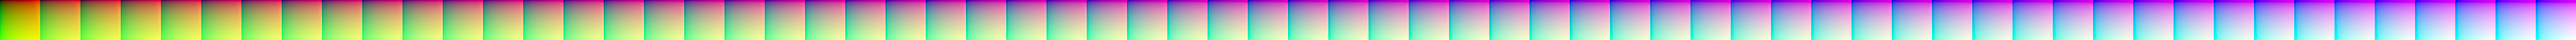
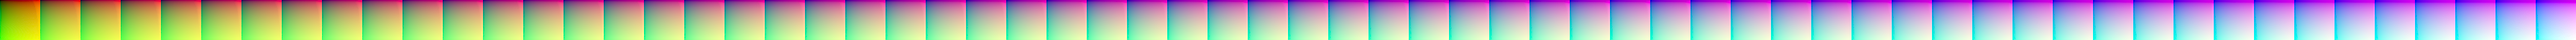
Update LUTs, etc. to match new gamma constants. Add 4% saturation to kind of compensate for lost "pop" from reducing constrast.

diff --git a/docs/mods/preparing_textures_for_ntscj_mode.md b/docs/mods/preparing_textures_for_ntscj_mode.md
@@ -25,7 +25,7 @@ Recolor your texture as per "If you are very anal," below.
 Make your texture in sRGB in Photoshop, etc., then apply the inverse NTSC-J conversion. Later, at display time, NTSC-J mode will apply the forward conversion, thus roundtripping your texture back to what you saw in Photoshop, etc.
 
 To do the inverse conversion, use [gamutthingy](https://github.com/ChthonVII/gamutthingy), as so:
-`gamutthingy --crtemu front --crtdemod CXA2060BS_JP --crtyuvconst 3digit --crtclamphighenable false --crtclamplowzerolight true --crtblack 0.0015 --crtwhite 1.71 --source-primaries P22_trinitron_mixandmatch --source-whitepoint 9300K8mpcd --dest-primaries srgb_spec --dest-whitepoint D65 --adapt cat16 --spiral-carisma true --map-mode compress --gamut-mapping-algorithm vprc --gamma-out srgb --backwards true --infile your_input_file.png --outfile your_output_file.png`
+`gamutthingy --crtemu front --crtdemod CXA2060BS_JP --crtyuvconst 3digit --crtclamphighenable false --crtclamplowzerolight true --crtblack 0.0018 --crtwhite 1.5 --crt-saturation-knob 1.04 --source-primaries P22_trinitron_mixandmatch --source-whitepoint 9300K8mpcd --dest-primaries srgb_spec --dest-whitepoint D65 --adapt cat16 --spiral-carisma true --map-mode compress --gamut-mapping-algorithm vprc --gamma-out srgb --backwards true --infile your_input_file.png --outfile your_output_file.png`
 
 ## **If you are very anal:**
 
@@ -36,9 +36,9 @@ This has two advantages:
 2. Color blending will be perfectly correct because what Photoshop, etc. thinks is the correct conversion to linear RGB will indeed be correct. (Though this hardly matters because color blending in the wrong linear space is still pretty close to correct. So the error is usually smaller than the error inherent in 8-bit quantization anyway.)
 
 To forward convert from NTSC-J to sRGB:
-`gamutthingy --crtemu front --crtdemod CXA2060BS_JP --crtyuvconst 3digit --crtclamphighenable false --crtclamplowzerolight true --crtblack 0.0015 --crtwhite 1.71 --source-primaries P22_trinitron_mixandmatch --source-whitepoint 9300K8mpcd --dest-primaries srgb_spec --dest-whitepoint D65 --adapt cat16 --spiral-carisma true --map-mode compress --gamut-mapping-algorithm vprc --gamma-out srgb --infile your_input_file.png --outfile your_output_file.png`
+`gamutthingy --crtemu front --crtdemod CXA2060BS_JP --crtyuvconst 3digit --crtclamphighenable false --crtclamplowzerolight true --crtblack 0.0018 --crtwhite 1.5 --crt-saturation-knob 1.04 --source-primaries P22_trinitron_mixandmatch --source-whitepoint 9300K8mpcd --dest-primaries srgb_spec --dest-whitepoint D65 --adapt cat16 --spiral-carisma true --map-mode compress --gamut-mapping-algorithm vprc --gamma-out srgb --infile your_input_file.png --outfile your_output_file.png`
 
 Make edits in sRGB space.
 
 To inverse convert back to NTSC-J:
-`gamutthingy --crtemu front --crtdemod CXA2060BS_JP --crtyuvconst 3digit --crtclamphighenable false --crtclamplowzerolight true --crtblack 0.0015 --crtwhite 1.71 --source-primaries P22_trinitron_mixandmatch --source-whitepoint 9300K8mpcd --dest-primaries srgb_spec --dest-whitepoint D65 --adapt cat16 --spiral-carisma true --map-mode compress --gamut-mapping-algorithm vprc --gamma-out srgb --backwards true --infile your_input_file.png --outfile your_output_file.png`
+`gamutthingy --crtemu front --crtdemod CXA2060BS_JP --crtyuvconst 3digit --crtclamphighenable false --crtclamplowzerolight true --crtblack 0.0018 --crtwhite 1.5 --crt-saturation-knob 1.04 --source-primaries P22_trinitron_mixandmatch --source-whitepoint 9300K8mpcd --dest-primaries srgb_spec --dest-whitepoint D65 --adapt cat16 --spiral-carisma true --map-mode compress --gamut-mapping-algorithm vprc --gamma-out srgb --backwards true --infile your_input_file.png --outfile your_output_file.png`

diff --git a/docs/mods/video_encoding_guide.md b/docs/mods/video_encoding_guide.md
@@ -92,7 +92,7 @@ This guide explains how to edit and encode FMV videos for high quality and prope
 - The original Playstation 1 videos were mastered for playback using the "NTSC-J" gamut from the Japanese television standard in force in the 1990s.  
      - Unfortunately, neither the x264 encoder nor ffmpeg have an enum for this color gamut. So FFNx must hijack `undef` to mean "NTSC-J." **Therefore, unless the exceptions noted above apply, a video that is not NTSC-J will play back with (very) incorrect colors in FFNx if the `--colorprim` metadata is absent.**
      - **Do not** attempt gamut conversions to/from NTSC-J unless you are 110% sure you know what you're doing. FFNx's gamut conversion is now **very** good, probably much better than whatever Avisynth filter you've found. So it's almost certainly a better idea to leave the color gamut alone and let FFNx deal with it. (Even if you are 110% sure you know what you're doing, it's probably wise to ask ChthonVII to be absolutely certain.)
-          - Do not use fmtconv for conversions to/from NTSC-J color gamut. Its NTSC-J preset uses a somewhat wrong whitepoint, uses the unreachable color primary coordinates from the NTSC spec (FFNx uses realistic coordinates for P22 phosphors, and simulates the "color correction chip" that would have (crudely) compensated for the discrepancy from the spec), and does not use a gamut compression algorithm to handle colors outside the destination gmaut without clipping.
+          - Do not use fmtconv for conversions to/from NTSC-J color gamut. Its NTSC-J preset uses a somewhat wrong whitepoint, uses the unreachable color primary coordinates from the NTSC spec (FFNx uses realistic coordinates for P22 phosphors, and simulates the "color correction chip" that would have crudely compensated for the discrepancy from the spec), and does not use a gamut compression algorithm to handle colors outside the destination gamut without clipping.
           - [gamutthingy](https://github.com/ChthonVII/gamutthingy) can do the conversion correctly, but you would have to batch process one frame at a time in .png format. Perhaps one day gamutthingy will be able to create LUTs in the format used by the Avisynth/Vapoursynth Timecube filter.
 - In the absence of metadata, `bt709` (sRGB) is assumed for eidoslogo.avi and sqlogo.avi because these files don't exist on the Playstation discs, and were presumably created for the PC release, presumably using the sRGB gamut. (It's honestly hard to say what the intended colorimetry for these two videos was, and sRGB is just the best guess available. We don't really know what was sitting on the desks of the people who made these videos. In 1998, the sRGB standard had been proposed, but not yet accepted. The first generation of consumer LCD monitors became available in 1997 and 1998, and *most* of them would have been at least close to sRGB. The colorimetry of CRT computer monitors was a bit of a "wild west.")
 - The avi video files from the Steam edition of FF8 appear to use the bt709 color gamut. (It appears that gamut conversion from NTSC-J was already done when these videos were encoded.)
